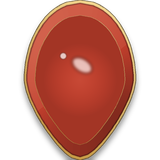
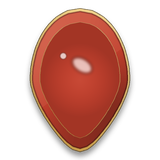
gems: balance the silhouettes so the cut stones do not look smaller
A square inscribed in the same radius as a circle has two thirds of the area, so after the recut the
cushion and the hexagon read as a smaller class of piece beside the drop and the emerald cut. Every
silhouette is now rescaled to one target area, then clamped to 90 % of the plate so nothing clips.

Changed region(s): [[0.125, 0.0, 0.875, 1.0]]

diff --git a/godot-port/tools/make_gem_art.py b/godot-port/tools/make_gem_art.py
@@ -120,20 +120,47 @@ def _octagon(radius):
              CY + math.sin(math.pi / 8 + i * math.pi / 4) * radius) for i in range(8)]
 
 
+def _polygon_area(points):
+    total = 0.0
+    for index in range(len(points)):
+        x0, y0 = points[index]
+        x1, y1 = points[(index + 1) % len(points)]
+        total += x0 * y1 - x1 * y0
+    return abs(total) * 0.5
+
+
+def _balance(points, target_area, max_extent):
+    """Give every silhouette the same visual weight, and keep it inside the plate.
+
+    A square inscribed in the same radius as a circle has two thirds of its area, so the cut stones read
+    smaller than the round ones and the board looks like it holds two different sizes of piece.
+    """
+    area = _polygon_area(points)
+    factor = math.sqrt(target_area / area) if area > 1.0 else 1.0
+    balanced = scale_points(points, factor)
+    xs = [x for x, _ in balanced]
+    ys = [y for _, y in balanced]
+    extent = max(max(xs) - min(xs), max(ys) - min(ys))
+    if extent > max_extent:
+        balanced = scale_points(balanced, max_extent / extent)
+    return balanced
+
+
 def silhouette(spec):
     radius = SIZE * 0.45
     shape = spec["shape"]
     if shape == "round":
-        return _circle(radius)
+        return _balance(_circle(radius), math.pi * radius * radius * 0.98, SIZE * 0.90)
     if shape == "cushion":
-        return _cushion(radius)
+        return _balance(_cushion(radius), math.pi * radius * radius * 0.98, SIZE * 0.90)
     if shape == "hexagon":
-        return _hexagon(radius)
+        return _balance(_hexagon(radius), math.pi * radius * radius * 0.98, SIZE * 0.90)
     if shape == "emerald":
-        return _emerald(radius * 1.18, radius * 1.98, radius * 0.26)
+        return _balance(_emerald(radius * 1.16, radius * 1.92, radius * 0.24),
+                        math.pi * radius * radius * 0.98, SIZE * 0.90)
     if shape == "drop":
-        return _drop(radius * 0.78, radius * 1.12)
-    return _octagon(radius * 1.00)
+        return _balance(_drop(radius * 0.78, radius * 1.12), math.pi * radius * radius * 0.98, SIZE * 0.90)
+    return _balance(_octagon(radius), math.pi * radius * radius * 0.98, SIZE * 0.90)
 
 
 def scale_points(points, factor, centre=(CX, CY)):
